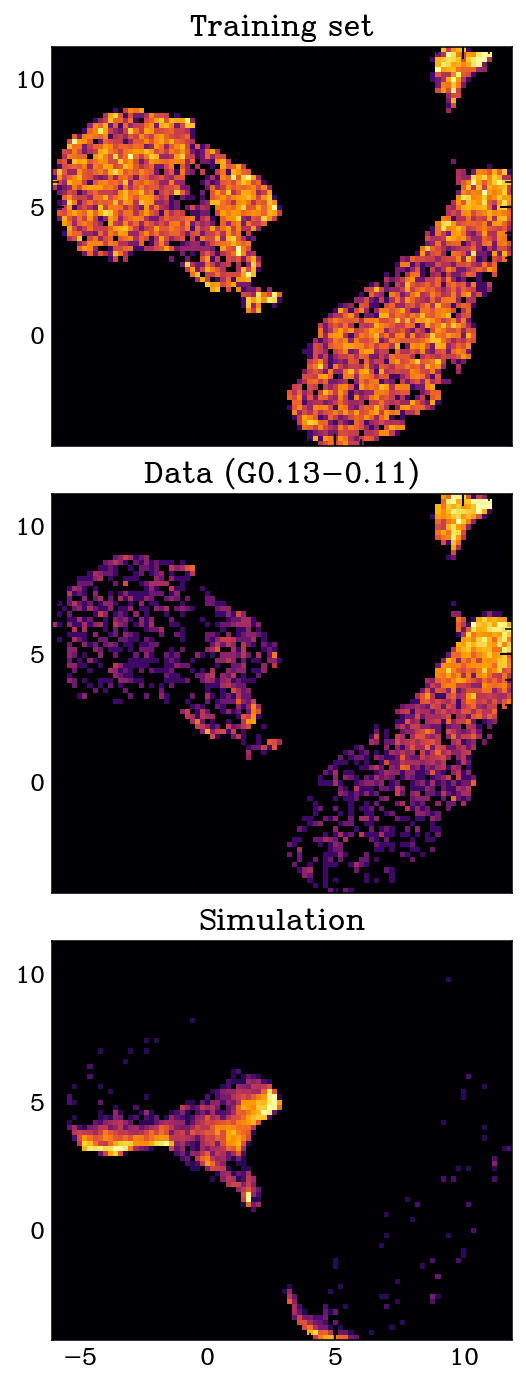
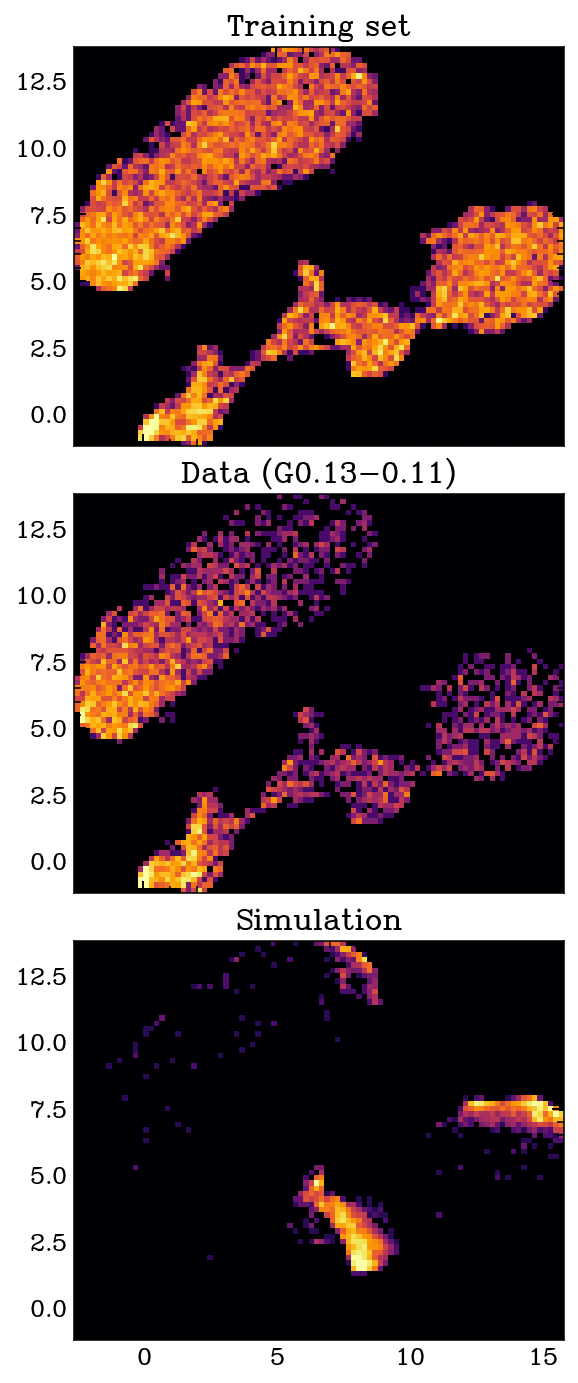
I messed around with the model but it actually got much worse

diff --git a/code/clean.py b/code/clean.py
@@ -1,14 +1,13 @@
 from train import *
 from scipy.interpolate import RegularGridInterpolator
-import shutil, os, sys, pickle
-from load import STATUS_MASK
+import shutil, os, pickle
 
 def make_interpolator():
     print("Making new interpolator")
     l1_file = "../data/02008801/event_l1/ixpe02008801_det1_evt1_v01.fits"
-    tracks_train = load_tracks(l1_file, max_lim=100000, position_filter=(305,300,50))
-    tracks_phot = load_tracks(l1_file, max_lim=100000, position_filter=(305,300,10))
-    tracks_bg = load_tracks(l1_file, max_lim=100000, position_filter=(305,300,-10))
+    tracks_train = load_tracks(l1_file, max_lim=100000, position_filter=(304,302,80))
+    tracks_phot = load_tracks(l1_file, max_lim=100000, position_filter=(304,302,3))
+    tracks_bg = load_tracks(l1_file, max_lim=100000, position_filter=(304,302,-20))
     
     reducer = build_map(tracks_train)
     with open("data/reducer.pk", 'wb') as f:
@@ -157,16 +156,15 @@ if __name__ == "__main__":
 
     print("Fractional change to background, fractional change to source")
 
-    print(check_background(
+    print(check_background( # GCF
         "../data/02007999/my_event_l2/ixpe02007901_det1_l2.fits",
         "../data/02007999/event_clean/ixpe02007901_det1_evt3_v01.fits"
     ))
-    print(check_background(
+    print(check_background( # B0540
         "../data/02008801/my_event_l2/ixpe02008801_det1_l2.fits",
         "../data/02008801/event_clean/ixpe02008801_det1_evt3_v01.fits"
     ))
-    print(check_background(
+    print(check_background( # GX 301
         "../data/01002601/my_event_l2/ixpe01002601_det1_l2.fits",
         "../data/01002601/event_clean/ixpe01002601_det1_evt3_v01.fits"
     ))
-    
